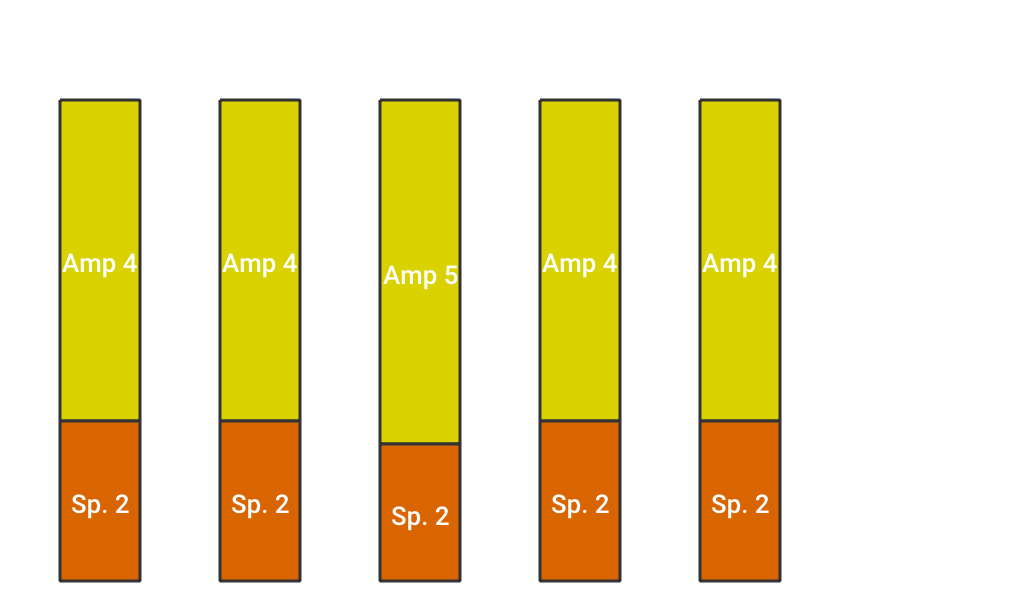
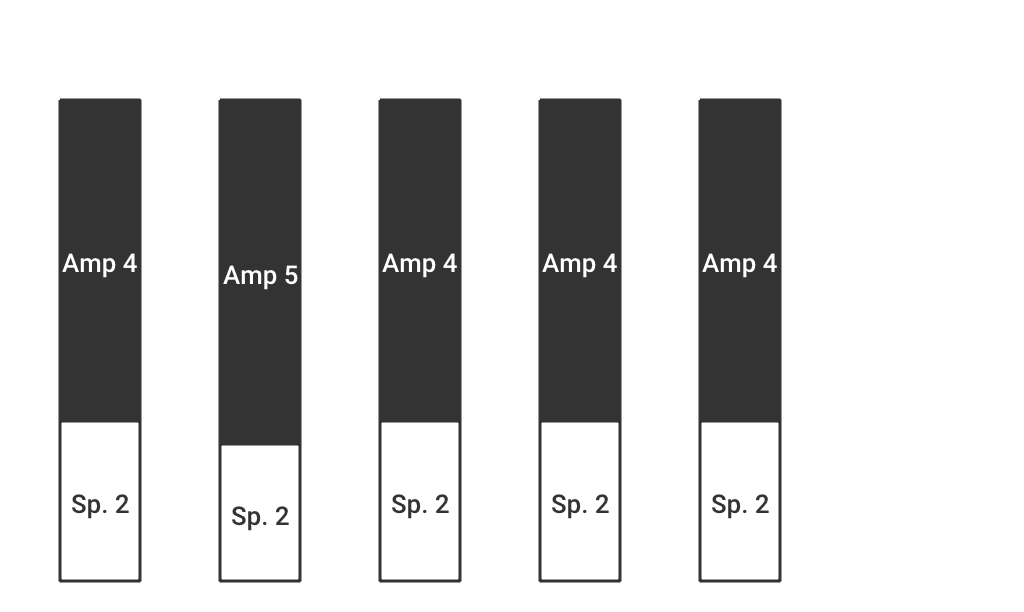
burgemshurgen

diff --git a/main.go b/main.go
@@ -464,6 +464,37 @@ func main() {
 	teamLookup.Resize(fyne.NewSize(1200, 600))
 	teamLookup.SetFixedSize(true)
 
+	matchLookupN := apptcpjwt.NewWindow("Match Lookup V 2.0")
+	matchLookupN.Resize(fyne.NewSize(1000, 600))
+	matchLookupN.SetCloseIntercept(func() {
+		matchLookupN.Hide()
+	})
+
+	matchLookupNOpen := widget.NewButton("Open match lookup v2.0 jwt", func() {
+		matchLookupN.Show()
+	})
+	matchLookupNSearch := widget.NewEntry()
+	matchLookupNSearch.SetPlaceHolder("Match Number")
+	//matchLookupNAllianceChoice := ""
+	matchLookupNAllianceDropDown := widget.NewSelect([]string{"Blue", "Red"}, func(s string) {
+		//matchLookupNAllianceChoice = s
+	})
+	matchLookupNTeams := []*widget.Label{widget.NewLabel("Ally 1"), widget.NewLabel("Ally 2"), widget.NewLabel("Ally 3")} //pointer to memory
+	matchLookupNScore := []*widget.Label{widget.NewLabel("score"), widget.NewLabel("score"), widget.NewLabel("score")}
+	matchLookupGraphs := []*canvas.Image{canvas.NewImageFromFile("0image.png"), canvas.NewImageFromFile("0image.png"), canvas.NewImageFromFile("0image.png")} //populate
+	for trpc, grpc := range matchLookupGraphs {
+		grpc.FillMode = canvas.ImageFillContain //hopefulyl bny ref
+		grpc.SetMinSize(fyne.NewSize(300, 200))
+		fmt.Println(trpc)
+	}
+	contaOne := container.NewHSplit(matchLookupNSearch, matchLookupNAllianceDropDown)
+	contaOne.SetOffset(0.5)
+	contaTwo := container.NewHSplit(container.NewVBox(container.NewHBox(matchLookupNTeams[0], matchLookupNScore[0]), container.NewHBox(matchLookupNTeams[1], matchLookupNScore[1]), container.NewHBox(matchLookupNTeams[2], matchLookupNScore[2])), container.NewVBox(matchLookupGraphs[0], matchLookupGraphs[1], matchLookupGraphs[2]))
+	contaTwo.SetOffset(1)
+	contaThree := container.NewVSplit(contaOne, contaTwo)
+	contaThree.SetOffset(0)
+	matchLookupN.SetContent(contaThree)
+
 	teamLookupN := apptcpjwt.NewWindow("Team Lookup V 2.0")
 	teamLookupN.Resize(fyne.NewSize(1000, 600))
 	teamLookupN.SetCloseIntercept(func() {
@@ -581,8 +612,8 @@ func main() {
 						Name:  fmt.Sprintf("Match %v", k),
 						Width: 80,
 						Values: []chart.Value{
-							{Value: float64(v[0]), Label: fmt.Sprintf("Auto %v", v[0]), Style: chart.Style{FillColor: chart.ColorGreen, FontColor: chart.ColorWhite, StrokeColor: chart.ColorBlack}},
-							{Value: float64(v[1]), Label: fmt.Sprintf("Tel %v", v[1]), Style: chart.Style{FillColor: chart.ColorRed, FontColor: chart.ColorWhite, StrokeColor: chart.ColorBlack}},
+							{Value: float64(v[0]), Label: fmt.Sprintf("Auto %v", v[0]), Style: chart.Style{FillColor: chart.ColorCyan, FontColor: chart.ColorBlack, StrokeColor: chart.ColorBlack}},
+							{Value: float64(v[1]), Label: fmt.Sprintf("Tel %v", v[1]), Style: chart.Style{FillColor: chart.ColorOrange, FontColor: chart.ColorBlack, StrokeColor: chart.ColorBlack}},
 						},
 					})
 				}
@@ -591,8 +622,9 @@ func main() {
 						Name:  fmt.Sprintf("Match %v", k),
 						Width: 80,
 						Values: []chart.Value{
-							{Value: float64(v[0]), Label: fmt.Sprintf("Amp %v", v[0]), Style: chart.Style{FillColor: chart.ColorYellow, FontColor: chart.ColorWhite, StrokeColor: chart.ColorBlack}},
-							{Value: float64(v[1]), Label: fmt.Sprintf("Sp. %v", v[1]), Style: chart.Style{FillColor: chart.ColorOrange, FontColor: chart.ColorWhite, StrokeColor: chart.ColorBlack}},
+							//lld linker ref
+							{Value: float64(v[0]), Label: fmt.Sprintf("Amp %v", v[0]), Style: chart.Style{FillColor: chart.ColorBlack, FontColor: chart.ColorWhite, StrokeColor: chart.ColorBlack}},
+							{Value: float64(v[1]), Label: fmt.Sprintf("Sp. %v", v[1]), Style: chart.Style{FillColor: chart.ColorWhite, FontColor: chart.ColorBlack, StrokeColor: chart.ColorBlack}},
 						},
 					})
 				}
@@ -601,8 +633,8 @@ func main() {
 						Name:  fmt.Sprintf("Match %v", k),
 						Width: 80,
 						Values: []chart.Value{
-							{Value: float64(v[0]), Label: fmt.Sprintf("Amp %v", v[0]), Style: chart.Style{FillColor: chart.ColorYellow, FontColor: chart.ColorWhite, StrokeColor: chart.ColorBlack}},
-							{Value: float64(v[1]), Label: fmt.Sprintf("Sp. %v", v[1]), Style: chart.Style{FillColor: chart.ColorOrange, FontColor: chart.ColorWhite, StrokeColor: chart.ColorBlack}},
+							{Value: float64(v[0]), Label: fmt.Sprintf("Amp %v", v[0]), Style: chart.Style{FillColor: chart.ColorBlack, FontColor: chart.ColorWhite, StrokeColor: chart.ColorBlack}},
+							{Value: float64(v[1]), Label: fmt.Sprintf("Sp. %v", v[1]), Style: chart.Style{FillColor: chart.ColorWhite, FontColor: chart.ColorBlack, StrokeColor: chart.ColorBlack}},
 						},
 					})
 				}
@@ -621,6 +653,7 @@ func main() {
 						TitleStyle: curr,
 						Background: chart.Style{
 							Padding: chart.Box{
+								//lld linker
 								Top:    100,
 								Bottom: 100,
 							},
@@ -1179,7 +1212,7 @@ func main() {
 			}, current)
 			//llvm
 			llvm.Show()
-		}), widget.NewButtonWithIcon("Import", theme.InfoIcon(), func() {
+		}), matchLookupNOpen, widget.NewButtonWithIcon("Import", theme.InfoIcon(), func() {
 			//mut value allocated
 			jwtauth := dialog.NewFolderOpen(func(reader fyne.ListableURI, err error) {
 				if err == nil && reader != nil {
